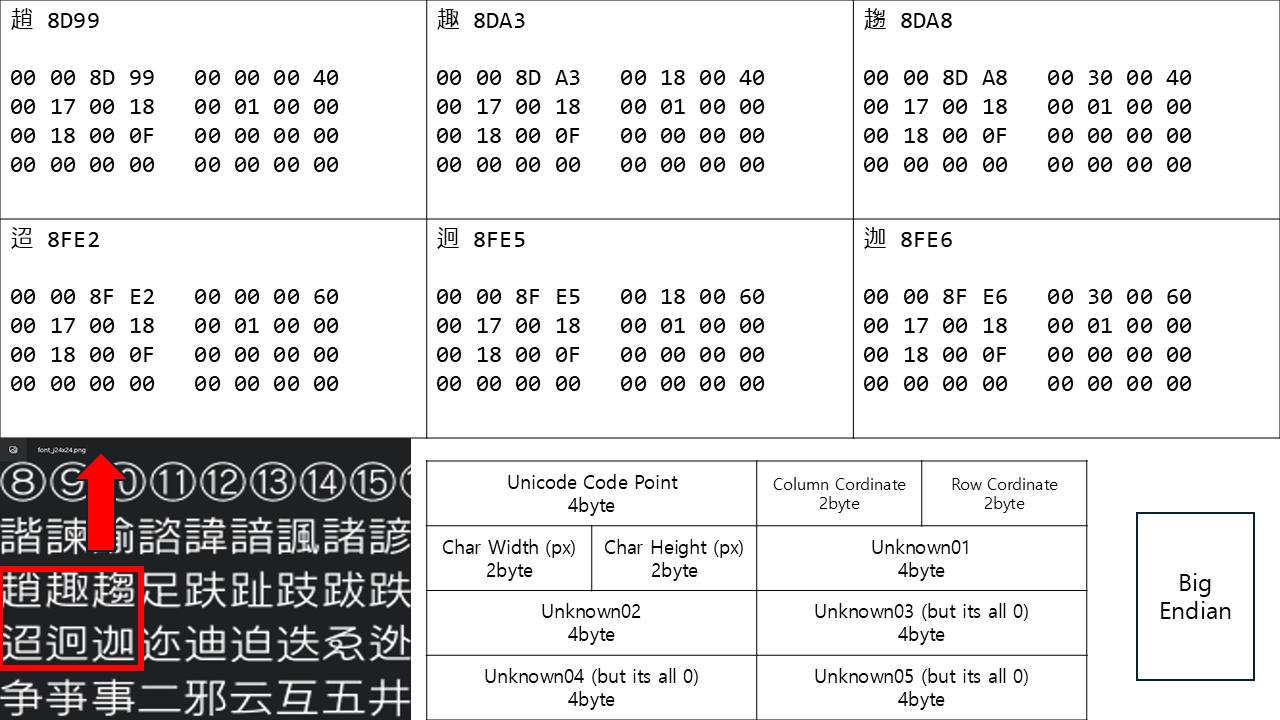
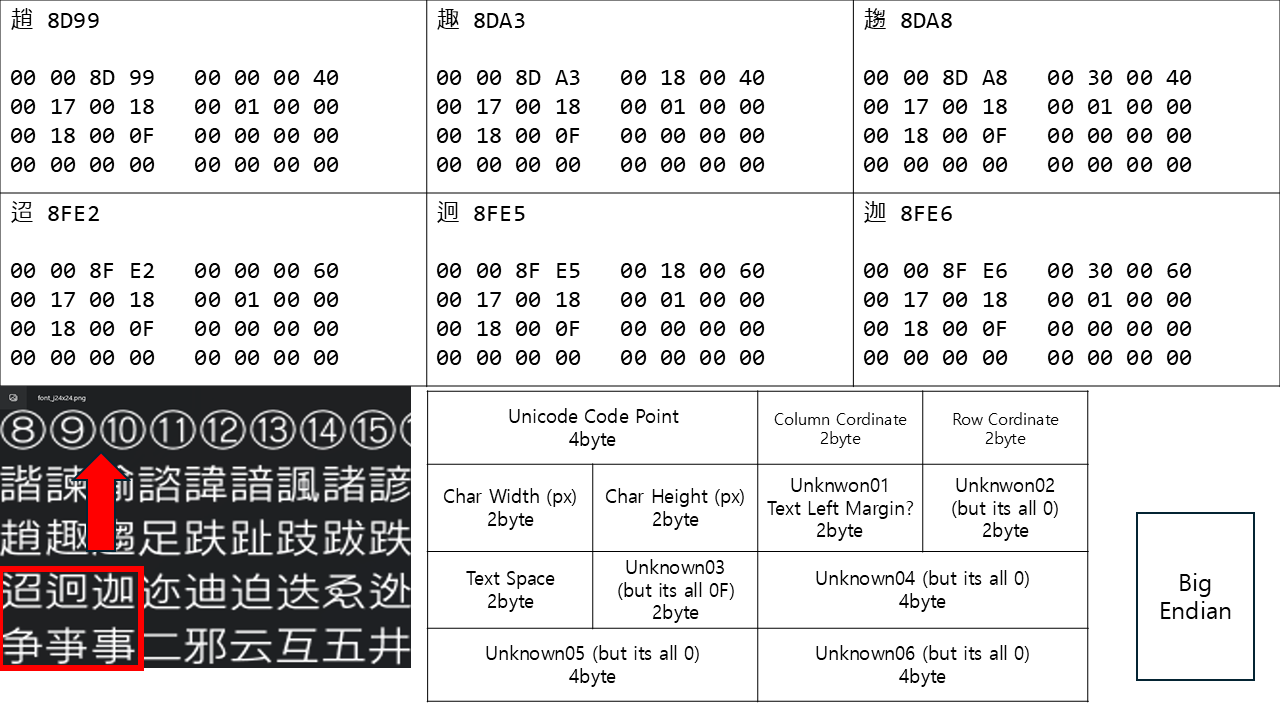
update more info

diff --git a/abf_replacer.py b/abf_replacer.py
@@ -1,0 +1,137 @@
+import copy
+import sys
+
+from fontTools.ttLib.ttFont import TTFont
+from PIL import ImageFont, Image, ImageDraw
+
+ATLAS_PATH = r"font_j24x24.png"
+ABF_PATH = r"font_j24x24.abf"
+FONT_PATH = "ChosunGu.ttf"
+FONT_MAP = "font_map.txt"
+TEXT_HEIGHT = 24
+ATLAS_W = 4096
+ATLAS_H = 2048
+BBOX_PADDING = 2
+
+
+ABF: bytearray = bytearray()
+NEW_ABF: bytearray = bytearray()
+NEW_ATLAS = Image.new("RGBA", (ATLAS_W, ATLAS_H), 0)
+draw = ImageDraw.Draw(NEW_ATLAS)
+editable_seg_offset = []
+old_abf_index = dict()
+
+# read abf file
+with open(ABF_PATH, "rb") as f:
+    ABF = bytearray(f.read())
+    NEW_ABF = copy.deepcopy(ABF)
+
+# move to start of body
+pos = 0
+while pos < len(ABF):
+    try:
+        header_str = ABF[pos:pos+8].decode("utf-8")
+    except:
+        header_str = ""
+
+    if header_str == "BFNTCBLK":
+        pos += 16
+        break
+    pos += 8
+
+body_start_pos = pos
+
+# find offsets of editable segment
+while pos < len(ABF):
+    unicode_point = ABF[pos:pos+4]
+    try:
+        character = chr(int.from_bytes(unicode_point))
+    except:
+        pos += 32
+        continue
+
+    editable_seg_offset.append(pos)
+    old_abf_index[character] = pos
+    pos += 32
+pos = None
+
+font = TTFont(FONT_PATH)
+support_char = []  # font support characters
+target_character = []  # characters what add to new afb
+
+# get cmap of font
+for ch, _ in font["cmap"].getBestCmap().items():
+    support_char.append(ch)
+
+# check if font map contain not support character
+with open(FONT_MAP, "r", encoding="utf-8") as f:
+    fmap = list(f.read())
+    for c in fmap:
+        if ord(c) not in support_char:
+            print(f"font is not support character {c}")
+        else:
+            target_character.append(c)
+
+if len(editable_seg_offset) < len(target_character):
+    print("Too many characters")
+    sys.exit()
+
+img_y = 0
+img_x = 0
+current_line_max_height = 0
+
+NEW_ABF = copy.deepcopy(ABF[:body_start_pos])  # copy header
+print(target_character)
+
+for idx, new_chr in enumerate(target_character):
+    # pos = editable_seg_offset[idx]
+    # NEW_ABF[pos:] = ord(new_chr).to_bytes(4)
+    font = ImageFont.truetype(FONT_PATH, TEXT_HEIGHT)
+    bbox = font.getbbox(new_chr)
+    left, top, right, bottom = bbox
+    str_width = right - left + BBOX_PADDING
+    str_height = bottom - top + BBOX_PADDING
+
+    if str_height < TEXT_HEIGHT:
+        str_height = TEXT_HEIGHT
+
+    if img_x + str_width >= ATLAS_W:
+        img_x = 0
+        img_y += current_line_max_height + 5
+
+    # print(new_chr, img_x, img_y)
+    draw.text(xy=(img_x-left+BBOX_PADDING, img_y), text=new_chr, fill=(255, 255, 255), font=font)
+
+    NEW_ABF.extend(ord(new_chr).to_bytes(4))
+    NEW_ABF.extend(img_x.to_bytes(2))
+    NEW_ABF.extend(img_y.to_bytes(2))
+    NEW_ABF.extend(str_width.to_bytes(2))
+    NEW_ABF.extend(str_height.to_bytes(2))
+
+    if new_chr == " ":
+        NEW_ABF.extend(bytearray.fromhex("00000000"))
+        NEW_ABF.extend(bytearray.fromhex("0000000F"))
+        NEW_ABF.extend(int("0").to_bytes(4))
+        NEW_ABF.extend(int("0").to_bytes(4))
+        NEW_ABF.extend(int("0").to_bytes(4))
+    else:
+        NEW_ABF.extend(bytearray.fromhex("00010000"))  # Unknown   ?? ?? 00 00
+        NEW_ABF.extend(bytearray.fromhex("00" + '{:x}'.format(str_width).zfill(2) + "000F"))  # Unknown   ?? ?? 00 0F
+        NEW_ABF.extend(int("0").to_bytes(4))
+        NEW_ABF.extend(int("0").to_bytes(4))
+        NEW_ABF.extend(int("0").to_bytes(4))
+
+    if img_x + str_width < ATLAS_W and img_y + str_height < ATLAS_H:
+        img_x += str_width + 8
+        current_line_max_height = max(str_height, current_line_max_height)
+    else:
+        img_x = 0
+        img_y += current_line_max_height + 8
+        current_line_max_height = str_height
+
+NEW_ABF.extend(bytearray("GENEEOF\t\0\0\0\0\0\0\0\0".encode()))
+
+NEW_ATLAS.save("test.png")
+
+with open("TEST.abf", "wb") as f:
+    f.write(NEW_ABF)

diff --git a/abf_parser.py b/abf_parser.py
@@ -36,6 +36,7 @@ u4 = set()
 u5 = set()
 
 dd: dict = dict()
+char_list = []
 
 while pos < len(data):
     unicode_point = data[pos:pos+4]
@@ -45,16 +46,18 @@ while pos < len(data):
         pos += 32
         continue
 
+    char_list.append(character)
+
     column = int.from_bytes(data[pos+4:pos+6], byteorder="big")
     row = int.from_bytes(data[pos+6:pos+8], byteorder="big")
 
     width = int.from_bytes(data[pos + 8:pos + 10], byteorder="big")
     height = int.from_bytes(data[pos + 10:pos + 12], byteorder="big")
 
-    unknown01 = data[pos+12:pos+16].hex(" ")
-    unknown02 = data[pos+16:pos+20].hex(" ")
-    unknown03 = data[pos+20:pos+24].hex(" ")
-    unknown04 = data[pos+24:pos+28].hex(" ")
+    unknown01 = data[pos+12:pos+14].hex(" ")
+    unknown02 = data[pos+14:pos+16].hex(" ")
+    unknown03 = data[pos+16:pos+18].hex(" ")
+    unknown04 = data[pos+18:pos+20].hex(" ")
     unknown05 = data[pos+28:pos+32].hex(" ")
 
     u1.add(unknown01)
@@ -93,6 +96,9 @@ for i, u in enumerate(tmp):
         print(each + "  ...includes...  ", end="")
         print(dd[f"u{i+1}_{each}"])
     print("\n")
+
+sorted(char_list)
+print("".join(char_list))
 
 cv2.imwrite("border_"+IMG_PATH, img)
 cv2.imshow(IMG_PATH, img)

diff --git a/bbox_test.py b/bbox_test.py
@@ -1,0 +1,21 @@
+from PIL import ImageFont, Image, ImageDraw
+
+FONT_PATH = "ChosunGu.ttf"
+TEXT_HEIGHT = 24
+CHAR = "_"
+
+font = ImageFont.truetype(FONT_PATH, TEXT_HEIGHT)
+offset = font.getlength(CHAR)
+print(offset)
+bbox = font.getbbox(CHAR)
+left, top, right, bottom = bbox
+
+width = right - left
+height = bottom - top
+
+image = Image.new('RGB', (width, height))
+draw = ImageDraw.Draw(image)
+
+draw.text(xy=(0-left, 0-top), text=CHAR, fill=(255, 255, 255), font=font)
+
+image.show()
